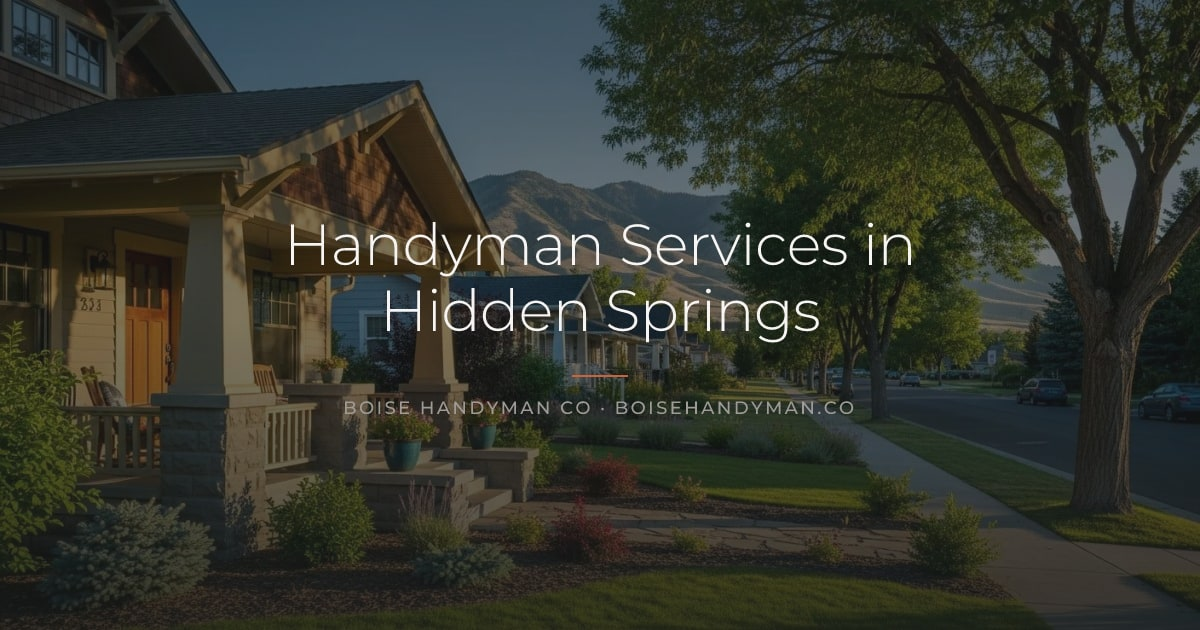
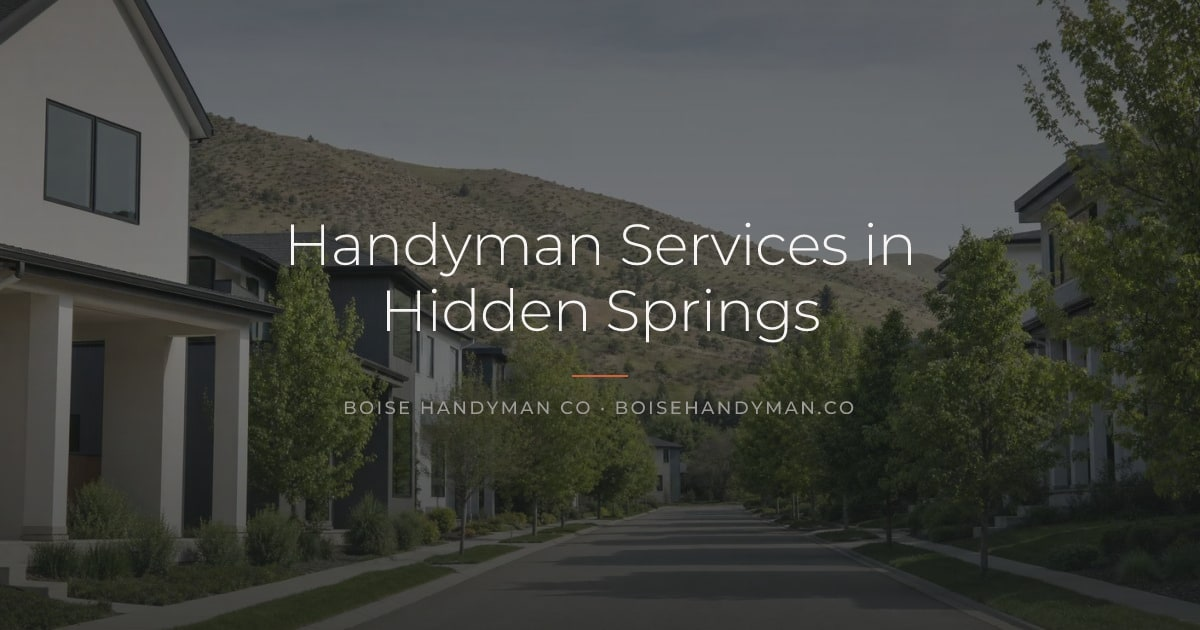
Regenerate share cards and alt text for the replaced house photos
Follows 33eaf09d, which replaced seven photos that showed Craftsman or
lodge-style houses (owner direction, 13 November 2026).

Share cards: the eleven blog and guide cards that were built from the
old area and gutter photos are rebuilt with scripts/generate-og-images.mjs
from the new photos. File names, size, overlay, title text and brand line
are unchanged; only the background photo differs. The generator was first
run against the old Kuna photo and reproduced the committed card byte for
byte, so nothing else moved.

Alt text: every description of the seven photos now says what the new
photo shows, in shared/imageAlts.ts, the blog image registry (changed in
its generator and regenerated with npm run images:blog), the inline
figure pool in shared/blogImages.ts and the areas index hero. No file,
route, slug or export key was renamed.

Also: scripts/optimize-marketing-images-sharp.mjs now skips the six old
PNG renders kept under assets/source-renders for these paths. Without
that, npm run images:optimize would convert the old pictures and put the
retired photos back on the site.

Claude-Session: https://claude.ai/code/session_017rQiZyN54jFFUDicQdeh2v

diff --git a/shared/blogImageRegistry.ts b/shared/blogImageRegistry.ts
@@ -85,7 +85,7 @@ export const BLOG_IMAGE_REGISTRY: Record<string, BlogImageEntry> = {
   },
   'gutter-cleaning-schedule-boise': {
     hero: '/images/handyman/hero-gutter-cleaning.webp',
-    alt: 'Autumn leaves filling a rain gutter on a single-story suburban Boise home',
+    alt: 'An extension ladder set against the gutter of a two-story house, with a bucket on the lawn below',
     topicTags: ["gutter cleaning","home maintenance","boise","exterior","home"],
     source: 'handyman',
   },
@@ -235,7 +235,7 @@ export const BLOG_IMAGE_REGISTRY: Record<string, BlogImageEntry> = {
   },
   'ember-ready-home-checklist-treasure-valley': {
     hero: '/images/handyman/hero-gutter-cleaning.webp',
-    alt: 'Autumn leaves filling a rain gutter on a single-story suburban Boise home',
+    alt: 'An extension ladder set against the gutter of a two-story house, with a bucket on the lawn below',
     topicTags: ["wildfire","embers","exterior","gutters","boise"],
     source: 'handyman',
   },
@@ -259,25 +259,25 @@ export const BLOG_IMAGE_REGISTRY: Record<string, BlogImageEntry> = {
   },
   'treasure-valley-exterior-home-care-guide': {
     hero: '/images/handyman/hero-gutter-cleaning.webp',
-    alt: 'Autumn leaves filling a rain gutter on a single-story suburban Boise home',
+    alt: 'An extension ladder set against the gutter of a two-story house, with a bucket on the lawn below',
     topicTags: ["exterior","fence","deck","gutters","siding"],
     source: 'handyman',
   },
   'boise-handyman-guide': {
     hero: '/images/areas/boise.webp',
-    alt: 'Established Boise, Idaho neighborhood of craftsman homes with covered porches and the Boise foothills rising behind the street',
+    alt: 'A tree-lined street of two-story homes with a brush-covered hillside rising behind',
     topicTags: ["boise","idaho","handyman","costs"],
     source: 'handyman',
   },
   'meridian-handyman-guide': {
     hero: '/images/areas/meridian.webp',
-    alt: 'Craftsman two-story home lit at dusk on a landscaped subdivision lot in Meridian, Idaho',
+    alt: 'A two-story white stucco home with dark siding, a two-car garage and a front lawn',
     topicTags: ["meridian","idaho","handyman","costs"],
     source: 'handyman',
   },
   'eagle-handyman-guide': {
     hero: '/images/areas/eagle.webp',
-    alt: 'Custom home on a landscaped Eagle, Idaho acreage lot at sunset with the foothills in the distance',
+    alt: 'A single-story white stucco home with a dark metal roof at dusk, set among gravel beds and ornamental grasses',
     topicTags: ["eagle","idaho","handyman","costs"],
     source: 'handyman',
   },
@@ -289,7 +289,7 @@ export const BLOG_IMAGE_REGISTRY: Record<string, BlogImageEntry> = {
   },
   'star-handyman-guide': {
     hero: '/images/areas/star.webp',
-    alt: 'Riverfront home in Star, Idaho with a lawn running down to the Boise River and shade trees along the bank',
+    alt: 'A dark-sided two-story home with a covered patio on a lawn beside a tree-lined river',
     topicTags: ["star","idaho","handyman","costs"],
     source: 'handyman',
   },
@@ -307,25 +307,25 @@ export const BLOG_IMAGE_REGISTRY: Record<string, BlogImageEntry> = {
   },
   'caldwell-handyman-guide': {
     hero: '/images/areas/kuna.webp',
-    alt: 'A farmhouse-style home with a stone front and metal roof, bordered by sagebrush',
+    alt: 'A single-story stucco home with a dark metal roof and a wood-clad entry, with sagebrush in front and mountains beyond',
     topicTags: ["caldwell","idaho","handyman","costs"],
     source: 'handyman',
   },
   'eagle-foothills-handyman-guide': {
     hero: '/images/areas/eagle.webp',
-    alt: 'Custom home on a landscaped Eagle, Idaho acreage lot at sunset with the foothills in the distance',
+    alt: 'A single-story white stucco home with a dark metal roof at dusk, set among gravel beds and ornamental grasses',
     topicTags: ["eagle","the eagle foothills","idaho","handyman","costs"],
     source: 'handyman',
   },
   'hidden-springs-handyman-guide': {
     hero: '/images/areas/boise.webp',
-    alt: 'Established Boise, Idaho neighborhood of craftsman homes with covered porches and the Boise foothills rising behind the street',
+    alt: 'A tree-lined street of two-story homes with a brush-covered hillside rising behind',
     topicTags: ["boise","hidden springs","idaho","handyman","costs"],
     source: 'handyman',
   },
   'harris-ranch-handyman-guide': {
     hero: '/images/areas/boise.webp',
-    alt: 'Established Boise, Idaho neighborhood of craftsman homes with covered porches and the Boise foothills rising behind the street',
+    alt: 'A tree-lined street of two-story homes with a brush-covered hillside rising behind',
     topicTags: ["boise","harris ranch","idaho","handyman","costs"],
     source: 'handyman',
   },

diff --git a/shared/imageAlts.ts b/shared/imageAlts.ts
@@ -47,7 +47,7 @@ const IMAGE_ALTS: Record<string, string> = {
   '/images/handyman/deck-board-replacement.webp':
     'Gloved hands replacing a deck board with a new cedar board',
   '/images/handyman/hero-gutter-cleaning.webp':
-    'Autumn leaves filling a house gutter along a cream two-story home exterior',
+    'An extension ladder set against the gutter of a two-story house, with a bucket on the lawn below',
   '/images/handyman/weatherstripping.webp':
     'Hands applying foam weatherstripping to a white exterior door frame',
   '/images/handyman/winterize-spigot.webp':
@@ -55,17 +55,17 @@ const IMAGE_ALTS: Record<string, string> = {
   '/images/handyman/grab-bar-install.webp':
     'A brushed-nickel grab bar installed on subway tile in a shower',
   '/images/areas/boise.webp':
-    'Cream Craftsman bungalow on a Boise street with porch, lawn, and foothills beyond',
+    'A tree-lined street of two-story homes with a brush-covered hillside rising behind',
   '/images/areas/meridian.webp':
-    'A modern suburban home exterior with a lawn and front walkway',
+    'A two-story white stucco home with dark siding, a two-car garage and a front lawn',
   '/images/areas/eagle.webp':
-    'A two-story house with a lawn and driveway',
+    'A single-story white stucco home with a dark metal roof at dusk, set among gravel beds and ornamental grasses',
   '/images/areas/nampa.webp':
     'A modern single-story home with large windows and landscaping',
   '/images/areas/kuna.webp':
-    'A farmhouse-style home with a stone front and metal roof, bordered by sagebrush',
+    'A single-story stucco home with a dark metal roof and a wood-clad entry, with sagebrush in front and mountains beyond',
   '/images/areas/star.webp':
-    'A house exterior with a front yard and trees',
+    'A dark-sided two-story home with a covered patio on a lawn beside a tree-lined river',
   '/images/areas/middleton.webp':
     'A single-story home with an attached garage',
   '/images/areas/caldwell.webp':
@@ -103,7 +103,7 @@ const IMAGE_ALTS: Record<string, string> = {
   '/images/gallery/gallery-maintenance-star-after.webp':
     'White exterior door jamb sealed with fresh foam weatherstripping',
   '/images/gallery/gallery-boise-bungalow-exterior.webp':
-    'Boise porch with a sage-green front door and white trim',
+    'A single-story ranch home with gray-green siding, a wood front door and a shaded front lawn',
   '/images/houses/kuna/kuna-gutter-cleaning.webp':
     'White gutter with autumn leaves at the eave of a beige Kuna single-storey home',
   '/images/houses/kuna/kuna-single-storey-front.webp':

diff --git a/scripts/generate-blog-image-registry.ts b/scripts/generate-blog-image-registry.ts
@@ -34,7 +34,7 @@ const LIBRARY = {
   },
   gutterCleaning: {
     src: img('hero-gutter-cleaning'),
-    alt: 'Autumn leaves filling a rain gutter on a single-story suburban Boise home',
+    alt: 'An extension ladder set against the gutter of a two-story house, with a bucket on the lawn below',
   },
   drywall: {
     src: img('service-drywall-repair'),
@@ -126,15 +126,15 @@ const LIBRARY = {
   },
   boiseArea: {
     src: area('boise'),
-    alt: 'Established Boise, Idaho neighborhood of craftsman homes with covered porches and the Boise foothills rising behind the street',
+    alt: 'A tree-lined street of two-story homes with a brush-covered hillside rising behind',
   },
   meridianArea: {
     src: area('meridian'),
-    alt: 'Craftsman two-story home lit at dusk on a landscaped subdivision lot in Meridian, Idaho',
+    alt: 'A two-story white stucco home with dark siding, a two-car garage and a front lawn',
   },
   eagleArea: {
     src: area('eagle'),
-    alt: 'Custom home on a landscaped Eagle, Idaho acreage lot at sunset with the foothills in the distance',
+    alt: 'A single-story white stucco home with a dark metal roof at dusk, set among gravel beds and ornamental grasses',
   },
   kunaArea: {
     // The Kuna area page hero, so the guide and the area page show one house.
@@ -143,7 +143,7 @@ const LIBRARY = {
   },
   starArea: {
     src: area('star'),
-    alt: 'Riverfront home in Star, Idaho with a lawn running down to the Boise River and shade trees along the bank',
+    alt: 'A dark-sided two-story home with a covered patio on a lawn beside a tree-lined river',
   },
   middletonArea: {
     src: area('middleton'),
@@ -156,10 +156,10 @@ const LIBRARY = {
   caldwellArea: {
     // caldwell.webp is a Tuscan-style villa among vineyards, not a Treasure
     // Valley house. The guide uses the Caldwell area page hero instead (the
-    // high-desert farmhouse no other city page shows), with alt text that
-    // describes it rather than placing it.
+    // single-story home on sagebrush ground that no other city page shows),
+    // with alt text that describes it rather than placing it.
     src: area('kuna'),
-    alt: 'A farmhouse-style home with a stone front and metal roof, bordered by sagebrush',
+    alt: 'A single-story stucco home with a dark metal roof and a wood-clad entry, with sagebrush in front and mountains beyond',
   },
 } as const;
 

diff --git a/shared/galleryData.ts b/shared/galleryData.ts
@@ -17,8 +17,8 @@ const g = (name: string) => `/images/gallery/${name}.webp`;
  * unpublished dataset, outside project-proof consumers.
  *
  * Continuity: each pair shares one camera lock. The Boise painting and drywall
- * pairs belong to the same craftsman bungalow (see also
- * `FEATURED_PROPERTY_IMAGES.boiseBungalowExterior`).
+ * pairs were made as one house. `FEATURED_PROPERTY_IMAGES.boiseBungalowExterior`
+ * is no longer that house: its photo was replaced on 13 November 2026.
  */
 export const UNPUBLISHED_GALLERY_CONCEPTS: GalleryProject[] = [
   {
@@ -98,7 +98,13 @@ export const UNPUBLISHED_GALLERY_CONCEPTS: GalleryProject[] = [
 /** Generated comparison assets are retained for provenance, not published as work. */
 export const GALLERY_PROJECTS: GalleryProject[] = [];
 
-/** Standalone service imagery remains available outside project-proof contexts. */
+/**
+ * Standalone service imagery remains available outside project-proof contexts.
+ *
+ * The key and file name are historical. Since 13 November 2026 the photo is a
+ * single-story ranch home with gray-green siding and a wood front door, so
+ * describe it that way in alt text, never as a bungalow or a porch.
+ */
 export const FEATURED_PROPERTY_IMAGES = {
   boiseBungalowExterior: g("gallery-boise-bungalow-exterior"),
 } as const;

diff --git a/shared/blogImages.ts b/shared/blogImages.ts
@@ -76,7 +76,7 @@ const INLINE_HUB_ALTS: Record<string, string> = {
   "installs-and-upgrades": "Handyman mounting work inside a home",
   "home-maintenance": "Caulking work at an interior joint",
   "costs-and-hiring": "Calculator, blank clipboard and tape measure for repair planning",
-  "exterior-and-outdoor": "Gutter cleaning at a residential roof edge"
+  "exterior-and-outdoor": "An extension ladder set against the gutter of a two-story house"
 };
 
 const INLINE_POOL: { src: string; alt: string; hubs?: string[] }[] = [
@@ -97,7 +97,7 @@ const INLINE_POOL: { src: string; alt: string; hubs?: string[] }[] = [
   },
   {
     src: FEATURED_PROPERTY_IMAGES.boiseBungalowExterior,
-    alt: "Boise porch with a sage-green front door and white trim",
+    alt: "A single-story ranch home with gray-green siding, a wood front door and a shaded front lawn",
     hubs: ["exterior-and-outdoor", "home-maintenance", "costs-and-hiring"],
   },
   {

diff --git a/shared/cityServiceImages.ts b/shared/cityServiceImages.ts
@@ -96,8 +96,8 @@ export const CITY_HERO_IMAGES: Record<string, string> = {
   star: "/images/areas/star.webp",
   middleton: "/images/areas/middleton.webp",
   // caldwell.webp reads as a Tuscan villa among vineyards, not an Idaho house,
-  // so the Caldwell card and area hero use the high-desert farmhouse (on
-  // sagebrush and open farmland) that no other city card shows.
+  // so the Caldwell card and area hero use the single-story home on open
+  // sagebrush ground that no other city card shows.
   caldwell: "/images/areas/kuna.webp",
   // Garden City used to fall back to the door-hinge photo that is also the
   // home, contact and areas hero. A deck job beside a single-storey home is

diff --git a/app/areas/page.tsx b/app/areas/page.tsx
@@ -53,7 +53,7 @@ export default function AreasHubPage() {
       <div className="flex flex-col ">
         <PageHeroBand
           imageSrc={AREAS_HERO_IMAGE}
-          imageAlt="Autumn leaves filling a house gutter along a cream two-story home exterior"
+          imageAlt="An extension ladder set against the gutter of a two-story house, with a bucket on the lawn below"
         >
           <Breadcrumbs items={[{ name: "Home", href: "/" }, { name: "Service areas" }]} />
           <p className="ed-eyebrow mt-8" style={{ color: "rgb(255 255 255 / 0.72)" }}>Treasure Valley</p>

diff --git a/docs/photo-shot-list.md b/docs/photo-shot-list.md
@@ -13,8 +13,8 @@ These eight images do the most work. One real photo for each removes most of the
 | handyman/toolbag-ready.webp (open tool bag on a drop cloth) | 64: 25 blog posts, 16 guides, 18 city service pages, the RE-10 page, the drywall, carpentry, plumbing and maintenance service pages | The team's own tool bag set down at a customer's door on a real job |
 | handyman/estimate-clipboard.webp (clipboard, calculator, tape) | 44: 16 blog posts, 13 guides, the blog and guides indexes, 9 city service pages, the electrical and mounting service pages, the warranty page | A real written quote on a clipboard during a walkthrough, with the customer name and prices covered |
 | handyman/service-carpentry-trim-branded.webp (hands fitting baseboard) | 32: about, /handyman, /services, 14 blog posts, 3 guides, 9 city service pages, the carpentry service page | A real baseboard or door casing repair, mid-fit, hands and tools in frame |
-| handyman/hero-gutter-cleaning.webp (leaves in a gutter) | 27: the areas index, 4 area pages, 13 city service pages, blog and guide pages | A real gutter cleaning or re-pitch on a Treasure Valley house, ladder set correctly |
-| gallery/gallery-boise-bungalow-exterior.webp (sage-green porch door) | 26: 20 blog posts, 4 guides, the drywall and painting service pages | A real exterior touch-up job on a local porch, after the work |
+| handyman/hero-gutter-cleaning.webp (ladder set at the gutter of a two-story house) | 27: the areas index, 4 area pages, 13 city service pages, blog and guide pages | A real gutter cleaning or re-pitch on a Treasure Valley house, ladder set correctly |
+| gallery/gallery-boise-bungalow-exterior.webp (single-story ranch home, gray-green siding) | 26: 20 blog posts, 4 guides, the drywall and painting service pages | A real exterior touch-up job on a local porch, after the work |
 | handyman/front-door-repaint-p5-reviewed-20260910.webp (repainted front door) | 26: the homepage, contact, the painting service page, 9 city service pages, blog and guide pages | A real front door repaint, before and after from the same spot |
 | handyman/service-caulking.webp (caulk bead at a tub) | 25: /services, /handyman, 5 area pages, 9 city service pages, blog pages | A real tub or shower recaulk, the old bead removed and the new one being run |
 | handyman/consult-doorstep-branded.webp (handyman and homeowner at a door) | 10: about, contact, the guides index, blog pages | Nick or a team member at a real customer's door with the scope sheet, the customer's permission given |
